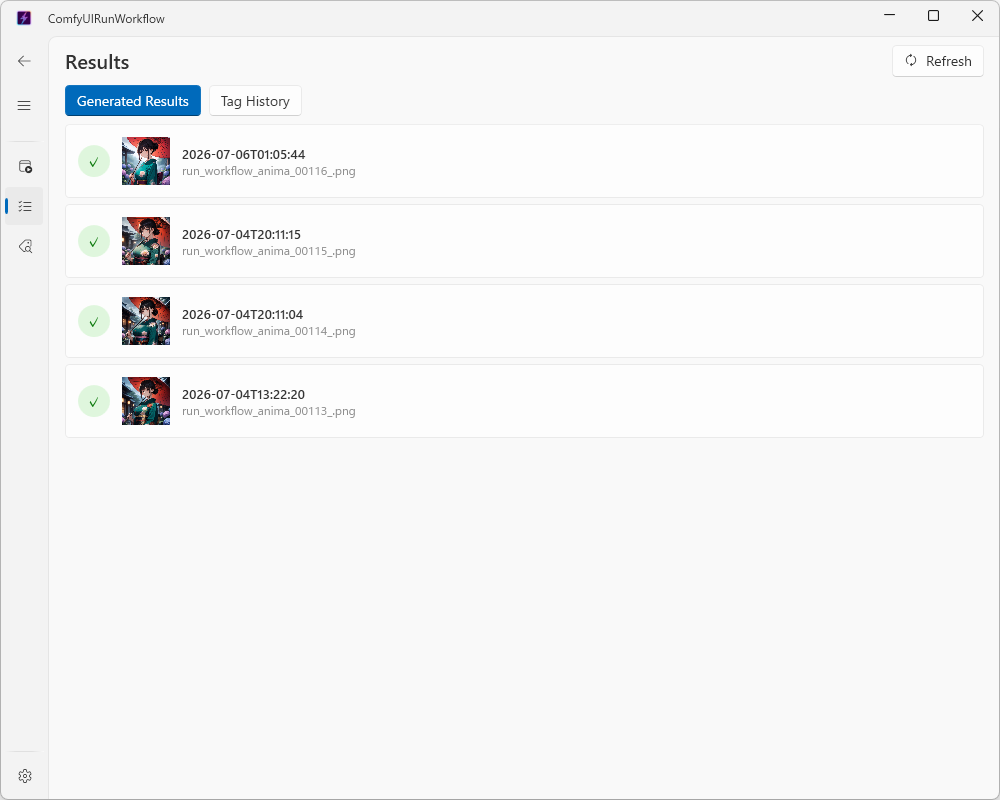
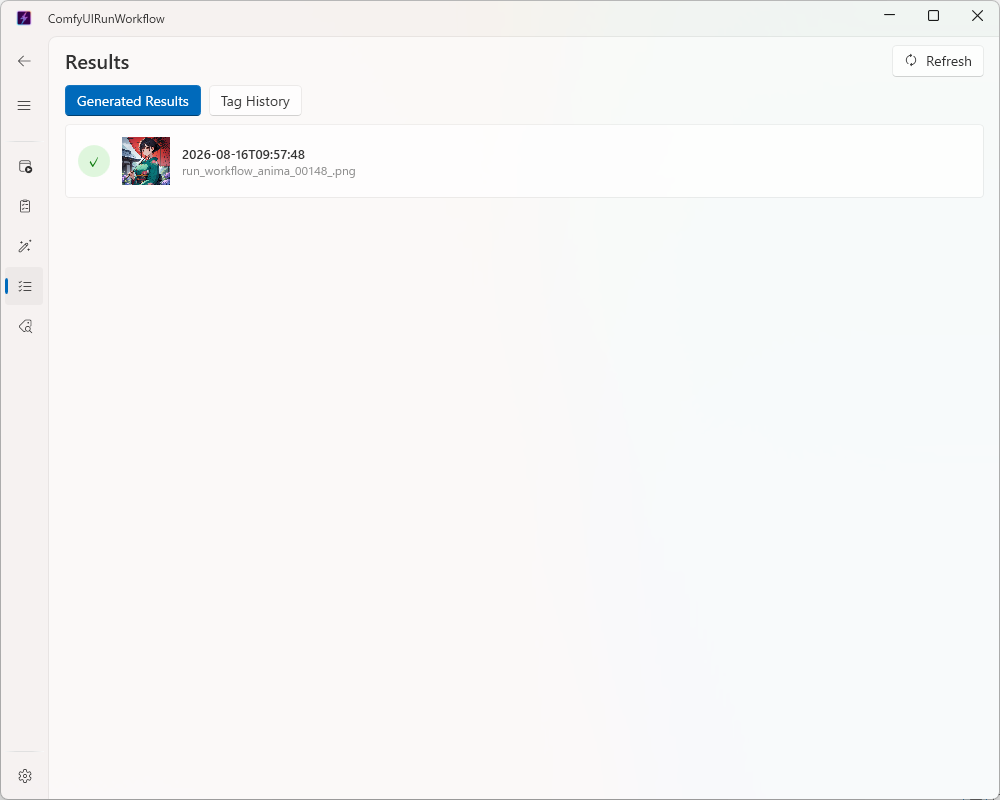
docs: README・使い方ドキュメントのスクリーンショットを最新化
ナビゲーションメニュー増加（Queue/Generateページ追加）に伴い全スクリーンショットを撮り直し。
data_page/tagger_pageの日本語版・英語版は中身が入れ替わっていたため修正。
Queue/Generateページのスクショをdoc/usage.md・doc/usage_english.mdに追加。

diff --git a/doc/usage_english.md b/doc/usage_english.md
@@ -86,6 +86,8 @@ The **Import** / **Export** buttons next to the title let you save and load the 
 
 ## Queue Page (Running Multiple Workflows in Sequence)
 
+![Queue page](images/queue_page_en.png)
+
 This page lets you register multiple "jobs" — each a combination of workflow, prompts, LoRA, image size, filename prefix, and batch count — in a list, and run them automatically one after another from the top. Use it when you want to run several workflows (e.g. `sdxl` and `anima`) together in one operation.
 
 ### Job Name
@@ -147,6 +149,8 @@ The job definitions (workflow, prompts, LoRA, image size, filename prefix, batch
 ---
 
 ## Generate Page (Batch Job Generation)
+
+![Generate page](images/generate_page_en.png)
 
 This page replaces keywords like `<CHARACTER>` in base prompts (JSON files with `positive`/`negative` keys) using a replacement list, then combines the result with a job template to bulk-generate a job list for the Queue page. It saves you from registering, by hand, a large number of jobs that only differ by character or outfit while sharing the same composition and settings.
 
